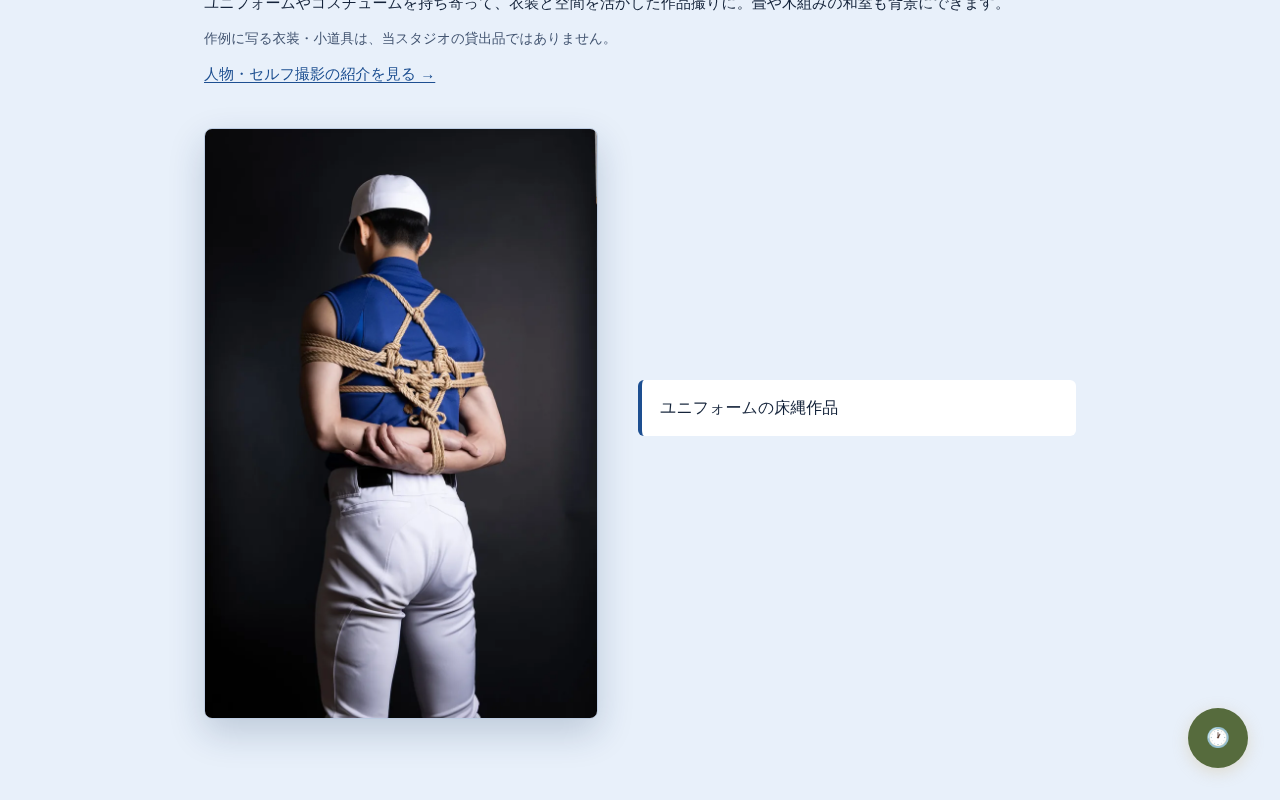
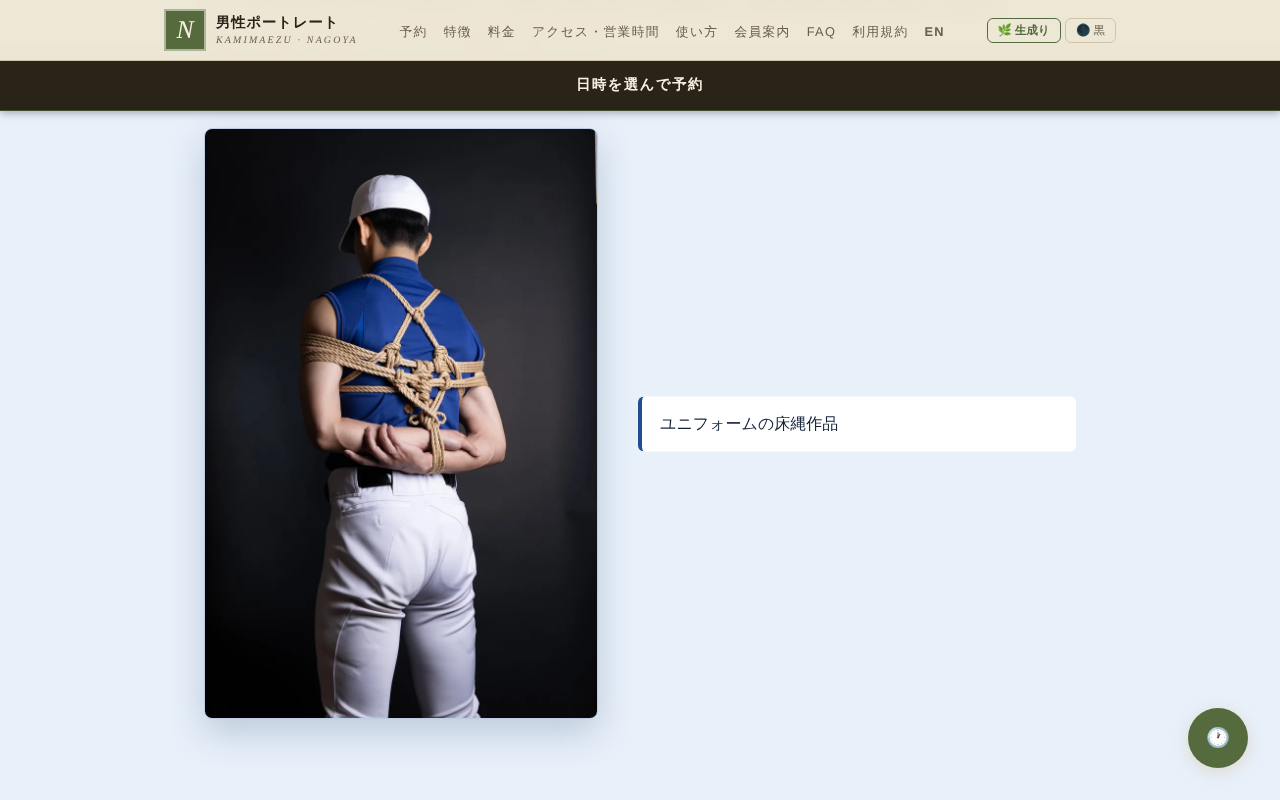
mens試作: 手動選択がスクロールバー操作で解除されない問題とキャプションの固定を修正 (#660)
Claude-Session: https://claude.ai/code/session_01UDjW9kM4JGCKy2BQxJMYrW

Changed region(s): [[0.0, 0.0, 1.0, 0.1562], [0.5312, 0.5, 0.6562, 0.5625]]

diff --git a/scripts/mens-preview-653.js b/scripts/mens-preview-653.js
@@ -1,9 +1,9 @@
 /* Issue #653/#660 試作ページ専用：作品紹介（衣装ブロック）の写真・キャプション切替。
-   4作品の写真を左の固定枠に重ね、右のキャプションが「固定された写真の縦の中央」より上に来た作品のうち最後のものを表示中にする。
+   4作品の写真を左の固定枠に重ね、右のキャプションが固定位置（写真の縦中央）まで上がってきた作品のうち最後のものを表示中にする。
    判定は IntersectionObserver の出入りではなく、scroll／resize のたびに requestAnimationFrame で
    現在位置から再計算する（速いフリックで帯を飛び越えても、その時点の位置に合う作品へ追いつく）。
    画面高の基準は CSS の --pv-vh（100svh）に一本化し、JS は実際に描画された写真とキャプションの位置だけを読む。
-   キーボード／クリックで選んだ作品は、ホイール・タッチ・スクロール系キーの操作があるまで位置判定で上書きしない。
+   キーボード／クリックで選んだ作品は、ホイール・タッチ・スクロールバー等の押下・スクロール系キーの操作があるまで位置判定で上書きしない。
    Tab でキャプションを選ぶと対応する写真に切り替わり、Enter／Space でその写真を拡大できる。
    自動再生・スクロールの強制移動・ズームはしない。
    prefers-reduced-motion、初期化の例外時は .is-active を付けず、4作品と各キャプションを通常の静的一覧で表示する。 */
@@ -20,6 +20,7 @@
     var current = null;
     var queued = false;
     var manual = false;
+    var lastPh = 0;
     function workOf(el) { return el.closest('[data-pv-work]'); }
     function activate(work) {
       if (current === work) return;
@@ -34,15 +35,22 @@
       var r = el.getBoundingClientRect();
       return r.top + r.height / 2;
     }
-    /* 固定された写真の縦中央より上にある最後のキャプション＝表示する作品。どれも下なら1作品目 */
+    /* 各キャプションは写真の縦中央で固定（CSS の sticky top）される。その位置まで上がってきた最後のキャプション＝表示する作品。
+       どれも届いていなければ1作品目。固定済みで重なる前のキャプションは .is-past で隠す（位置で決めるため手動選択中も更新する） */
     function update() {
       queued = false;
-      if (manual) return;
+      /* 写真は列幅で決まる高さのこともあるため、実測の高さを --pv-ph に渡し、キャプションの固定位置と末尾行をそれに合わせる */
       var photo = works[0].querySelector('.pv-photo');
-      if (!photo) return;
-      var line = center(photo);
+      var ph = photo && photo.getBoundingClientRect().height;
+      if (ph && root.style && ph !== lastPh) { lastPh = ph; root.style.setProperty('--pv-ph', ph + 'px'); }
       var idx = 0;
-      captions.forEach(function (cap, i) { if (center(cap) <= line) idx = i; });
+      captions.forEach(function (cap, i) {
+        if (center(cap) <= parseFloat(window.getComputedStyle(cap).top) + 2) idx = i;
+      });
+      captions.forEach(function (cap, i) {
+        if (i < idx) cap.classList.add('is-past'); else cap.classList.remove('is-past');
+      });
+      if (manual) return;
       activate(workOf(captions[idx]));
     }
     function queueUpdate() {
@@ -77,6 +85,12 @@
     /* 利用者のスクロール操作で手動選択を解除し、以後は位置で判定する */
     window.addEventListener('wheel', release, { passive: true });
     window.addEventListener('touchmove', release, { passive: true });
+    /* スクロールバーのドラッグ／トラッククリックは wheel・touchmove を出さないため、キャプション以外の押下でも解除する */
+    window.addEventListener('pointerdown', function (e) {
+      var t = e && e.target;
+      if (t && t.closest && t.closest('[data-pv-work-caption]')) return;
+      release();
+    });
     window.addEventListener('keydown', function (e) {
       if (['ArrowUp', 'ArrowDown', 'PageUp', 'PageDown', 'Home', 'End'].indexOf(e.key) !== -1) release();
     });
@@ -86,6 +100,7 @@
       cap.removeAttribute('tabindex');
       cap.removeAttribute('role');
       cap.removeAttribute('aria-label');
+      cap.classList.remove('is-past');
     });
   }
 })();

diff --git a/styles/mens-preview-633.css b/styles/mens-preview-633.css
@@ -257,19 +257,20 @@
 /* 作品紹介：既定（JSなし・reduced-motion・初期化失敗）は4作品とキャプションを静的に並べる。
    JSが .is-active を付けたときだけ、写真を左の固定枠に重ね、キャプションを右に縦に並べる */
 .pv-works { list-style: none; margin: 0; padding: 0; display: grid; grid-template-columns: repeat(4, minmax(0, 1fr)); gap: 16px; align-items: start; max-width: 1040px; }
-.pv-works.is-active { --pv-vh: 100vh; --pv-top: 128px; --pv-bottom: 48px; --pv-photo-h: calc(var(--pv-vh) - var(--pv-top) - var(--pv-bottom)); --pv-row: calc(var(--pv-vh) * 0.7); grid-template-columns: minmax(0, 0.9fr) minmax(0, 1fr); grid-template-rows: repeat(4, minmax(var(--pv-row), auto)) calc(var(--pv-row) / 2 + var(--pv-photo-h) / 2); column-gap: 40px; row-gap: 0; max-width: 880px; }
+.pv-works.is-active { --pv-vh: 100vh; --pv-top: 128px; --pv-bottom: 48px; --pv-photo-h: calc(var(--pv-vh) - var(--pv-top) - var(--pv-bottom)); --pv-row: calc(var(--pv-vh) * 0.7); grid-template-columns: minmax(0, 0.9fr) minmax(0, 1fr); grid-template-rows: repeat(4, minmax(var(--pv-row), auto)) calc(var(--pv-row) / 2 + var(--pv-ph, var(--pv-photo-h)) / 2); column-gap: 40px; row-gap: 0; max-width: 880px; }
 @supports (height: 100svh) { .pv-works.is-active { --pv-vh: 100svh; } }
 .pv-works.is-active .pv-work, .pv-works.is-active .pv-work > figure { display: contents; }
 .pv-works.is-active .pv-photo { grid-column: 1; grid-row: 1 / span 5; position: sticky; top: var(--pv-top); align-self: start; width: min(100%, calc(var(--pv-photo-h) * 2 / 3)); opacity: 0; visibility: hidden; pointer-events: none; transition: opacity 0.45s ease, visibility 0s linear 0.45s; }
 .pv-works.is-active .pv-work.is-current .pv-photo { opacity: 1; visibility: visible; pointer-events: auto; transition-delay: 0s; z-index: 1; }
-.pv-works.is-active figcaption { grid-column: 2; align-self: center; margin: 0; padding: 14px 18px; border-left: 4px solid var(--border); border-radius: 6px; font-size: 1rem; line-height: 1.7; color: var(--text); opacity: 0.45; transition: opacity 0.45s ease; }
+.pv-works.is-active figcaption { grid-column: 2; align-self: start; position: sticky; top: calc(var(--pv-top) + var(--pv-ph, var(--pv-photo-h)) / 2); margin: calc(var(--pv-row) / 2) 0 0; transform: translateY(-50%); padding: 14px 18px; border-left: 4px solid var(--border); border-radius: 6px; font-size: 1rem; line-height: 1.7; color: var(--text); opacity: 0.45; transition: opacity 0.45s ease; }
 .pv-works.is-active figcaption:focus-visible { outline: 2px solid var(--accent); outline-offset: 2px; }
 .pv-works.is-active figcaption { cursor: pointer; }
+.pv-works.is-active figcaption.is-past { opacity: 0; pointer-events: none; }
 .pv-works.is-active .pv-work.is-current figcaption { opacity: 1; border-left-color: var(--accent); background: #fff; }
-.pv-works.is-active .pv-work:nth-child(1) figcaption { grid-row: 1; }
-.pv-works.is-active .pv-work:nth-child(2) figcaption { grid-row: 2; }
-.pv-works.is-active .pv-work:nth-child(3) figcaption { grid-row: 3; }
-.pv-works.is-active .pv-work:nth-child(4) figcaption { grid-row: 4; }
+.pv-works.is-active .pv-work:nth-child(1) figcaption { grid-row: 1 / 6; }
+.pv-works.is-active .pv-work:nth-child(2) figcaption { grid-row: 2 / 6; }
+.pv-works.is-active .pv-work:nth-child(3) figcaption { grid-row: 3 / 6; }
+.pv-works.is-active .pv-work:nth-child(4) figcaption { grid-row: 4 / 6; }
 .z-sky .pv-photo { box-shadow: 0 14px 36px rgba(20, 50, 90, 0.2); }
 .pv-group { margin-top: 64px; padding: 28px 32px; background: #fff; border: 1px solid var(--border); border-left: 4px solid var(--accent); border-radius: 8px; }
 .pv-group-title { font-size: 1.3rem; font-weight: 600; line-height: 1.5; margin: 0 0 12px; }

diff --git a/_evidence-660/check-header.js b/_evidence-660/check-header.js
@@ -1,0 +1,31 @@
+/* #660 固定ヘッダー・予約バナー回避の確認（Jekyll通常ビルド）。使い方: node check-header.js <_site> <出力dir> */
+const { chromium } = require('playwright');
+const http = require('http'), fs = require('fs'), path = require('path');
+const root = process.argv[2], out = process.argv[3];
+const srv = http.createServer((q, r) => { let p = path.join(root, decodeURIComponent(q.url.split('?')[0])); if (fs.existsSync(p) && fs.statSync(p).isDirectory()) p += '/index.html'; if (!fs.existsSync(p)) { r.writeHead(404); return r.end(); }
+  r.writeHead(200, { 'content-type': { '.html': 'text/html', '.css': 'text/css', '.js': 'text/javascript', '.webp': 'image/webp', '.png': 'image/png', '.jpg': 'image/jpeg', '.svg': 'image/svg+xml' }[path.extname(p)] || 'application/octet-stream' }); fs.createReadStream(p).pipe(r); }).listen(8770, async () => {
+  const b = await chromium.launch(); fs.mkdirSync(out, { recursive: true });
+  for (const [w, h] of [[1280, 800], [1280, 900], [320, 568], [390, 844]]) {
+    const ctx = await b.newContext({ viewport: { width: w, height: h }, isMobile: w < 800, hasTouch: w < 800 }); const pg = await ctx.newPage();
+    await pg.goto('http://localhost:8770/mens/preview-633.html', { waitUntil: 'networkidle' });
+    await pg.evaluate(async () => { for (let y = 0; y < document.body.scrollHeight; y += 600) { scrollTo({ top: y, behavior: 'instant' }); await new Promise(r => setTimeout(r, 30)); } scrollTo({ top: 0, behavior: 'instant' }); await new Promise(r => setTimeout(r, 400)); });
+    const rows = [];
+    for (let i = 0; i < 4; i++) {
+      const r = await pg.evaluate(async i => {
+        const root = document.querySelector('[data-pv-works]'), cap = root.querySelectorAll('[data-pv-work-caption]')[i], photo = root.querySelector('.pv-photo');
+        const nav = document.querySelector('nav.site-nav'), ban = document.querySelector('.booking-fixed-banner');
+        const fixedBottom = Math.max(...[nav, ban].filter(Boolean).map(e => { const s = getComputedStyle(e); return (s.position === 'fixed' || s.position === 'sticky') ? e.getBoundingClientRect().bottom : 0; }));
+        const g = root.getBoundingClientRect().top + scrollY, ph = photo.getBoundingClientRect().height, top = parseFloat(getComputedStyle(photo).top);
+        const y = g - top + i * innerHeight * 0.7 + innerHeight * 0.45; /* 作品i+1の区間の中ほど */
+        scrollTo({ top: Math.max(y, g - top + 1), behavior: 'instant' }); await new Promise(r => requestAnimationFrame(() => requestAnimationFrame(r)));
+        const cur = [...root.querySelectorAll('[data-pv-work]')].findIndex(w => w.classList.contains('is-current'));
+        const cp = cap.getBoundingClientRect(), pp = [...root.querySelectorAll('.pv-photo')][cur].getBoundingClientRect();
+        return { work: cur + 1, fixedBottom: Math.round(fixedBottom), photoTop: Math.round(pp.top), photoBottom: Math.round(pp.bottom), capInView: cp.top >= 0 && cp.bottom <= innerHeight, capTop: Math.round(cp.top), photoClearOfHeader: pp.top >= fixedBottom, vh: innerHeight };
+      }, i);
+      rows.push(r); await pg.waitForTimeout(600); await pg.screenshot({ path: path.join(out, `${w}x${h}-work${i + 1}.png`) });
+    }
+    console.log(w + 'x' + h, JSON.stringify(rows));
+    await ctx.close();
+  }
+  await b.close(); srv.close();
+});

diff --git a/_evidence-660/README.md b/_evidence-660/README.md
@@ -2,25 +2,27 @@
 
 ## 設計
 - 1作品＝閲覧可能高（`--pv-vh`＝`100svh`、非対応は`100vh`）の70%。行は4行＋キャプションのない**末尾行**（`--pv-row/2 + 写真高/2`）で、写真は5行ぶんを`position: sticky`で支える（4枚目の後も固定が続く）
-- 表示作品は「固定された写真の縦中央より上にある最後のキャプション」。`scroll`／`resize`／`orientationchange`／`load`→`requestAnimationFrame`で現在位置から再計算（IntersectionObserver不使用）
-- キーボード／クリックの手動選択は、ホイール・タッチ・スクロール系キー（↑↓PageUp/Down/Home/End）まで位置判定で上書きしない（Tabでは解除しない）
+- キャプションは写真の縦中央でsticky固定。表示作品は「固定位置まで上がってきた最後のキャプション」（先の固定済みキャプションは`.is-past`で隠す）。`scroll`／`resize`／`orientationchange`／`load`→`requestAnimationFrame`で現在位置から再計算（IntersectionObserver不使用）
+- キーボード／クリックの手動選択は、ホイール・タッチ・キャプション以外の押下（スクロールバーのドラッグ／トラッククリック）・スクロール系キー（↑↓PageUp/Down/Home/End）まで位置判定で上書きしない（Tabでは解除しない）
 - `.is-active`のときだけ行高さ・変数が効く。JS無効・reduced-motionは従来の静的4作品一覧（確認済み: sticky・非表示・演出用余白なし）
 
-## 計測（Chromium、`measure-scroll.js`。ローカルでJekyll include抜きの静的ビルド＝固定ヘッダーなし）
+## 計測（Chromium、`measure-scroll.js`。通常のJekyllビルド＝固定ヘッダー・予約バナーあり）
 | ビューポート | 固定開始 | →2枚目 | →3枚目 | →4枚目 | 固定終了 | 滞在(1/2/3/4枚目) |
 | --- | --- | --- | --- | --- | --- | --- |
-| PC 高さ800 | 4658 | 5206 | 5766 | 6326 | 6899 | 548 / 560 / 560 / 573 |
-| PC 高さ900 | 4658 | 5310 | 5938 | 6570 | 7264 | 652 / 628 / 632 / 694 |
-| SP 幅320×568 | 7279 | 7774 | 8170 | 8570 | 9070 | 495 / 396 / 400 / 500 |
-| SP 幅390×844 | 6814 | 7570 | 8162 | 8754 | 9557 | 756 / 592 / 592 / 803 |
+| PC 高さ800 | 4692 | 5236 | 5796 | 6356 | 6917 | 544 / 560 / 560 / 561 |
+| PC 高さ900 | 4692 | 5340 | 5972 | 6600 | 7232 | 648 / 632 / 628 / 632 |
+| SP 幅320×568 | 7286 | 7777 | 8177 | 8573 | 8972 | 491 / 400 / 396 / 399 |
+| SP 幅390×844 | 6821 | 7577 | 8165 | 8757 | 9348 | 756 / 588 / 592 / 591 |
 
-- 滞在距離は高さの約65〜95%。1枚目＝固定開始→2枚目、4枚目＝4枚目→固定終了。横スクロールなし
-- 写真は縦方向でなく列幅で決まる大きさ（PC 591px・SP 207／263px）で、従前と同じ。小さくしていない
-- `shots/`: 各ビューポートの固定開始・各作品・固定終了・終了後の連続画像
+- 滞在距離は画面高の約70〜90%。横スクロールなし。写真は列幅で決まる大きさ（PC 591px・SP 207／263px）で従前と同じ
+- `shots/`: 固定開始・各作品・固定終了・終了後の連続画像
+
+## 固定ヘッダー回避（`check-header.js`、`header-shots/`）
+各作品の区間で、写真上端（PC128／SP116px）は固定ヘッダー＋予約バナー下端（PC111／SP105px）より下、現在のキャプションは画面内（写真の縦中央に固定）。全ビューポート・全作品で true。
+なお初版は現在のキャプションが区間の後半で画面外（ヘッダーの下）へ流れていたため、キャプションをsticky固定し、写真の実測高を`--pv-ph`で渡して固定位置と末尾行を合わせた。
 
 ## 挙動（`check-behavior.js`）
 大ジャンプ（帯の飛び越し）・逆方向・resize（800→900）でも位置に合う作品へ追いつく。手動選択4はスクロール位置が作品1でも保持され、wheelで位置判定へ復帰。
 
 ## 未確認
 - iOS Safariの実機（アドレスバー表示／非表示・回転）は未確認。`svh`はアドレスバーで変動しない設計
-- 固定ヘッダー・予約バナー込みの実ページ位置は、本番ビルド（Jekyll include）で未計測。固定位置の上端は従前値（PC128px／SP116px）のまま
